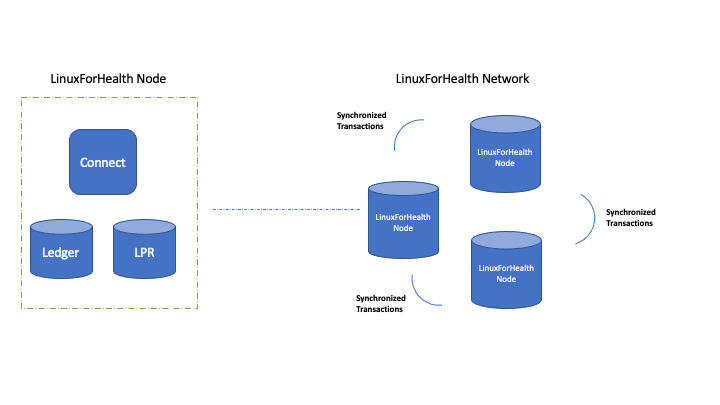
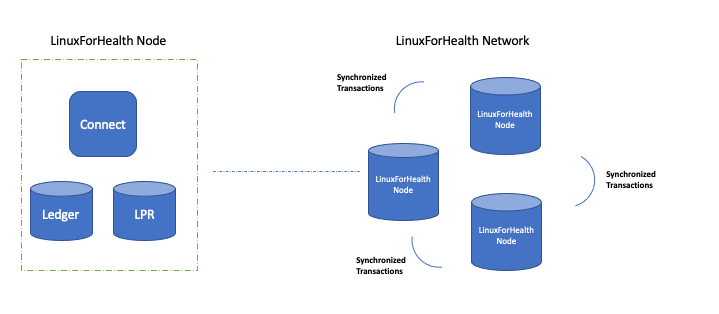
additional updates: cropping images and editing copy

diff --git a/source/index.rst b/source/index.rst
@@ -92,7 +92,7 @@ Optional step used for applying data transformations and updates to validated da
 
 Persist
 -------
-Data is persisted into the LPR store. Metadata is also created and provided to ledger related services, including search.
+Data is persisted into the LPR store. Metadata is also created and provided to ledger storage and search services.
 
 Transmit
 --------
